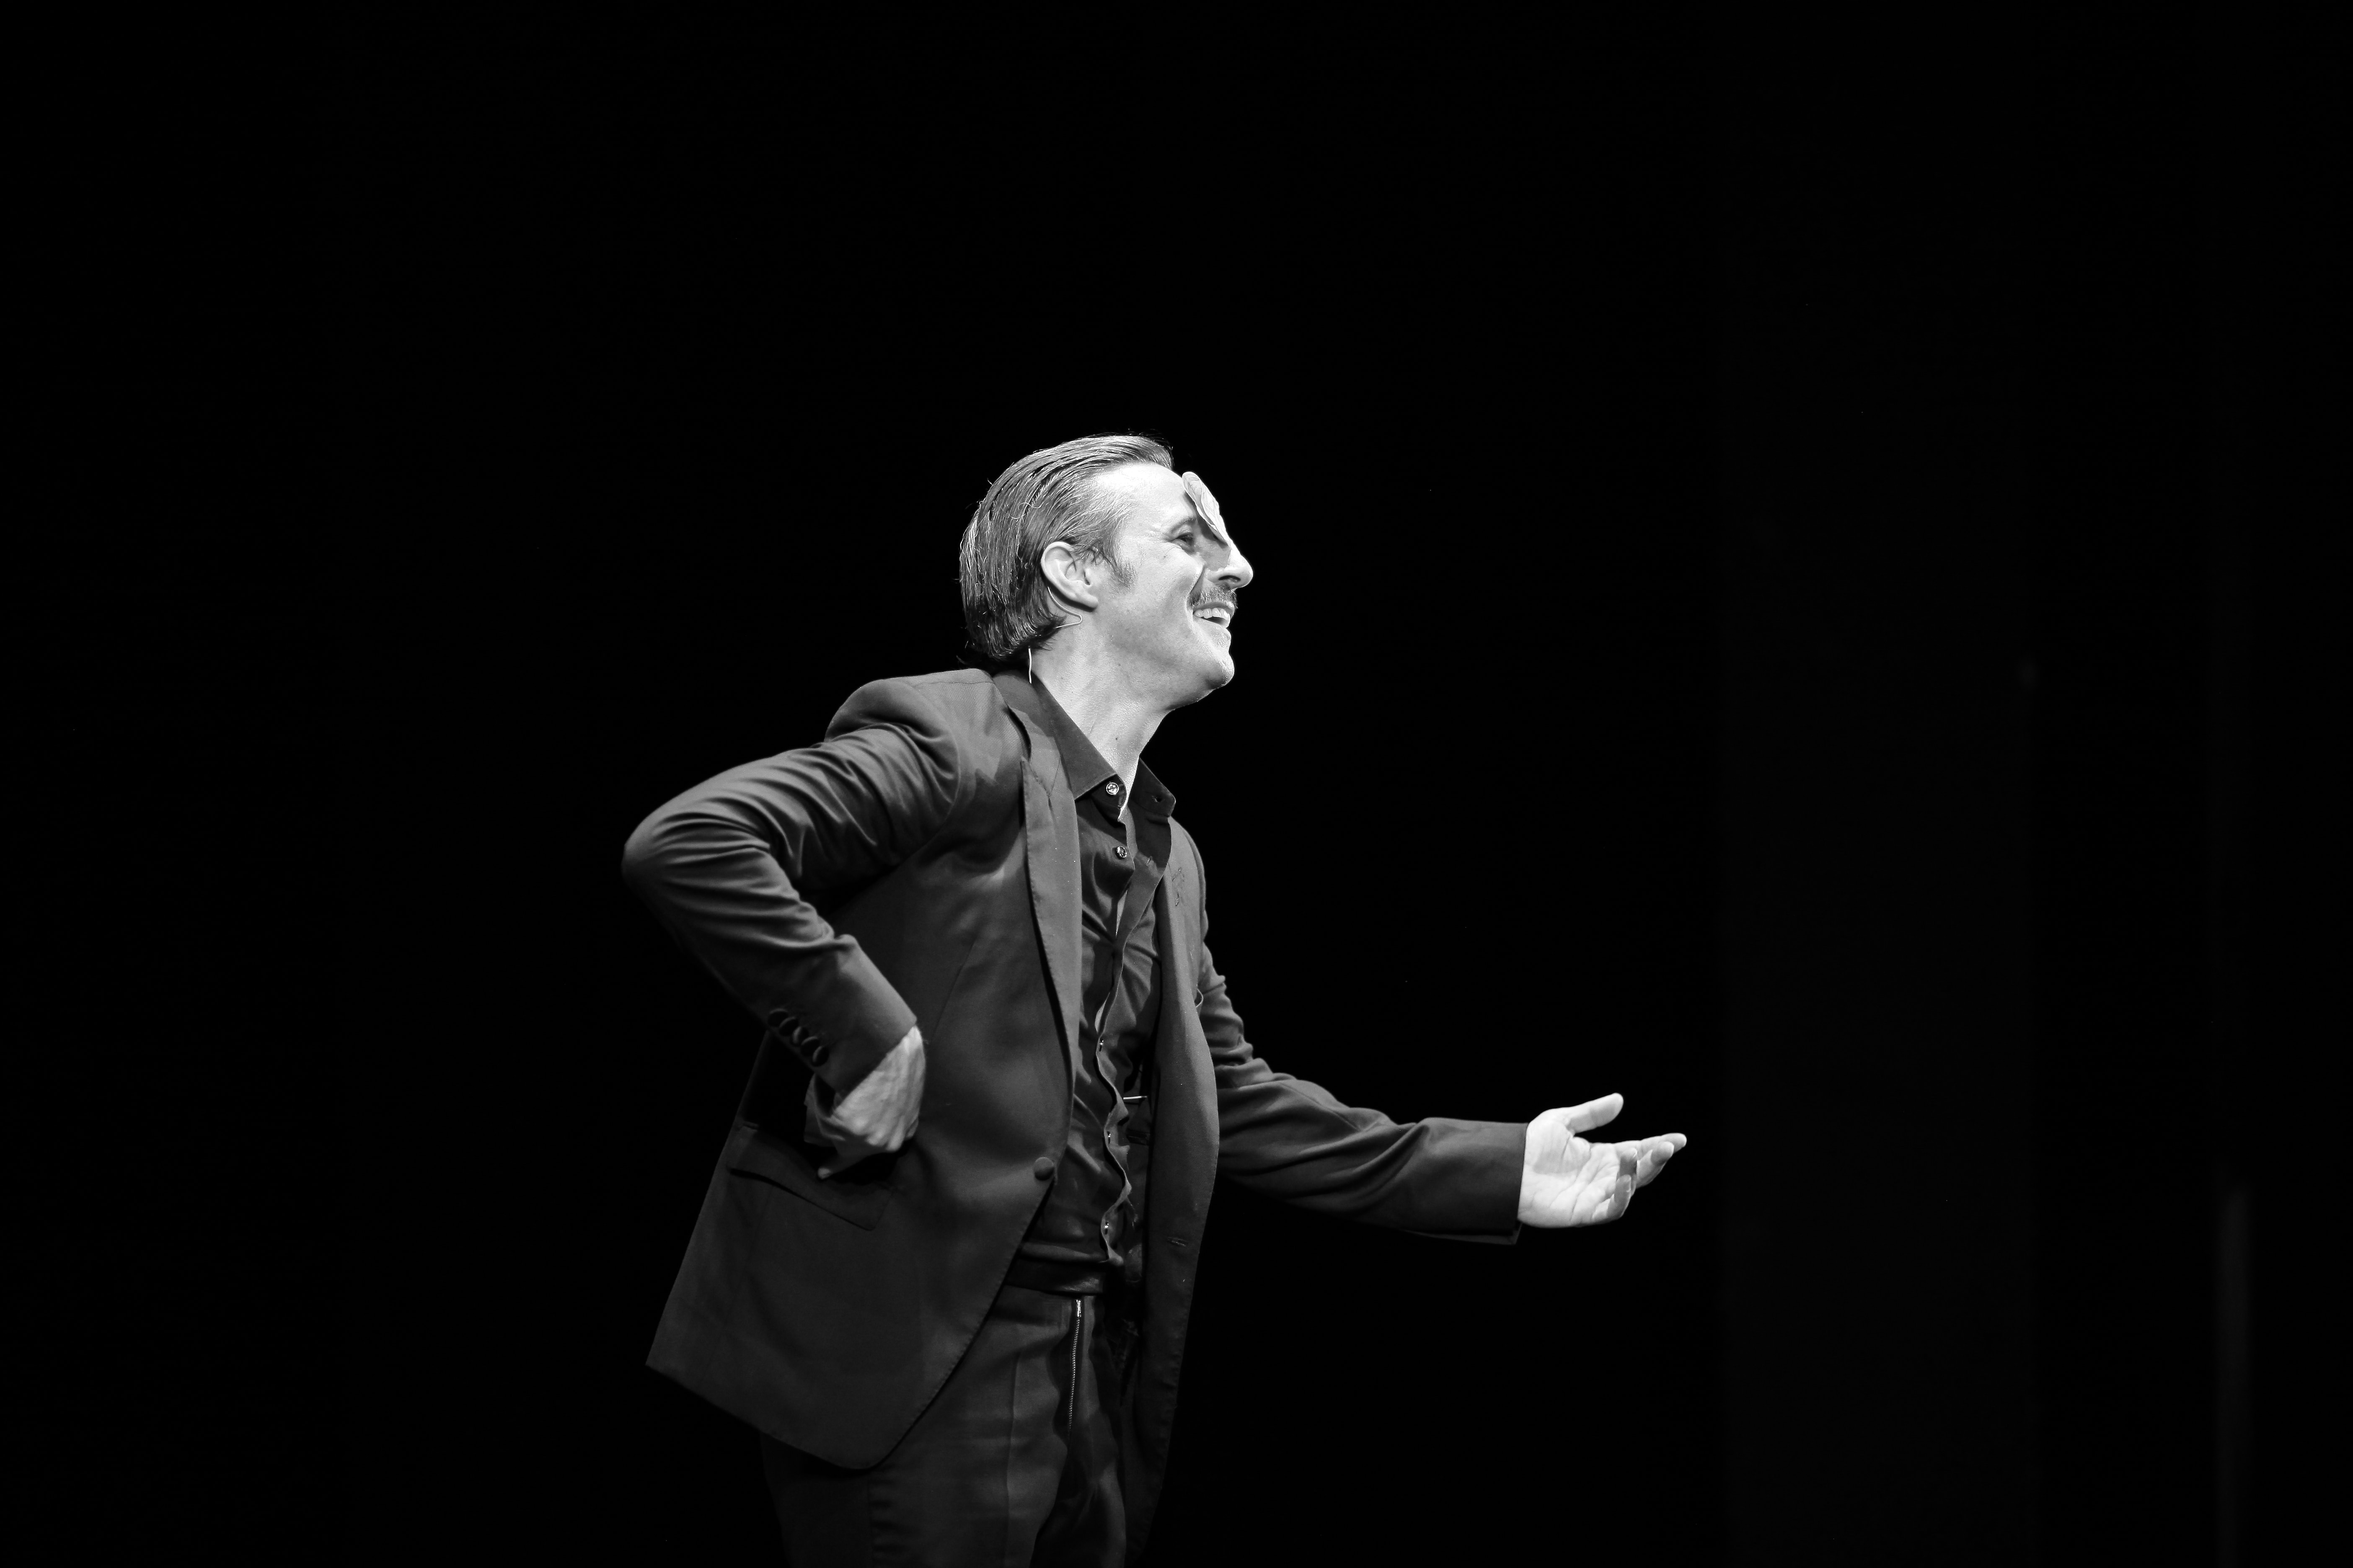
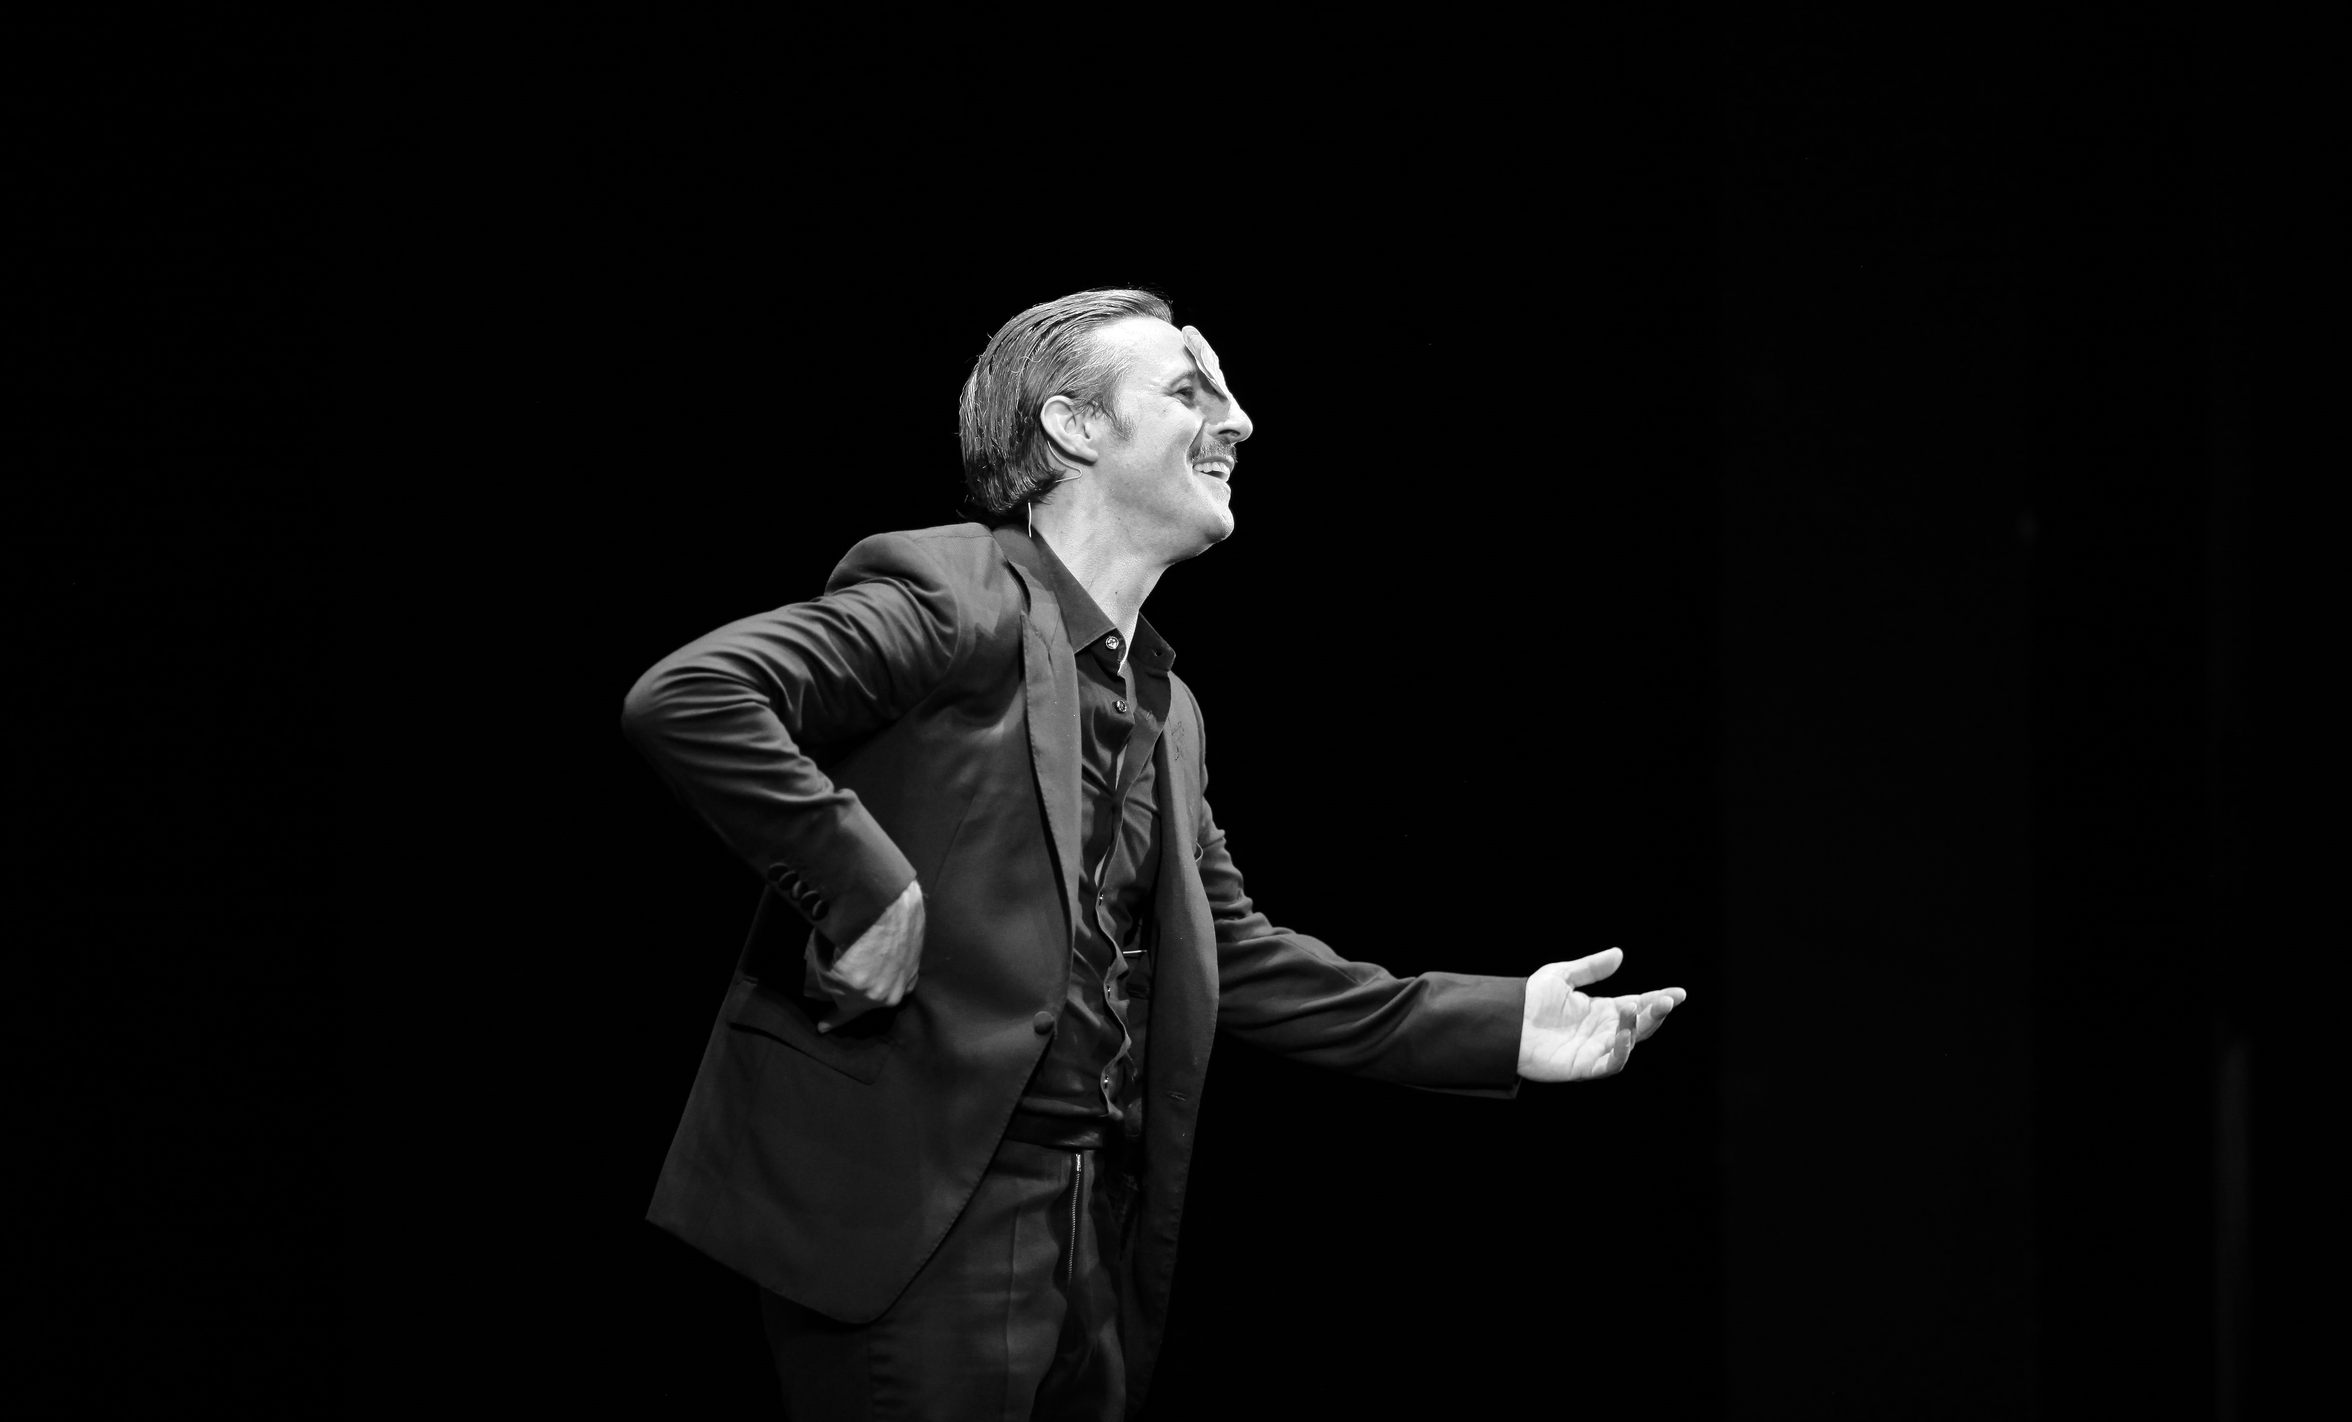
Fix images error in biografia and saber más

Changed region(s): [[0.2493, 0.1874, 0.7168, 0.9057]]

diff --git a/wp-content/themes/cristobalj/style.css b/wp-content/themes/cristobalj/style.css
@@ -2820,6 +2820,10 @@ input.wpcf7-form-control.wpcf7-submit {
   .ai1ec-agenda-view .ai1ec-month {
     font-size: 1em;
   }
+  .timely a{
+    margin-top: 1rem !important;
+    font-size: 16px !important;
+  }
   #ai1ec-calendar-view > div.ai1ec-agenda-view > div > a > div.ai1ec-day {
     font-size: 2em !important;
     padding: .4em !important;
@@ -3108,7 +3112,13 @@ input.wpcf7-form-control.wpcf7-submit {
   }
   /*Bio page slider styles*/
   .rslides, .psicoteatro-slide {
-    max-height: 800px;
+    max-height: 880px;
+  }
+  .biografia .psicoteatro-slide {
+    max-height: 1100px;
+  }
+  .site-info {
+    font-size: 30px;
   }
 
   #iframe_container {
@@ -3208,7 +3218,7 @@ input.wpcf7-form-control.wpcf7-submit {
   }
   .imgChange13{
     position: absolute;
-    left: -83px;
+    left: -163px;
   }
   .imgChange14{
     width: 100px;

diff --git a/wp-content/themes/cristobalj/page-biografia.php b/wp-content/themes/cristobalj/page-biografia.php
@@ -3,7 +3,7 @@
  * Template for displaying Biography page */
 
 get_header(); ?>
-<div id="primary" class="content-area">
+<div id="primary" class="biografia content-area">
   <main id="main" class="site-main">
     <ul class="psicoteatro-slide">
       <li class="pslide"><img src="<?php echo get_template_directory_uri(); ?>/images/cristobal/biografia/01-min.jpg" alt=""></li>
